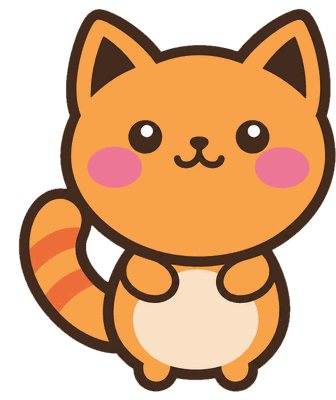
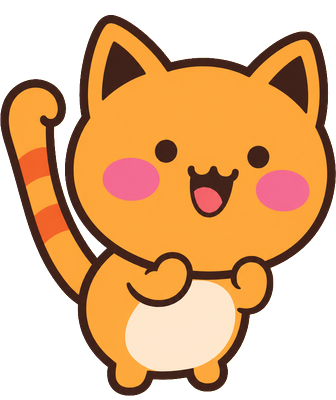
Confidence slider: the cat has a body for each state, leans into a drag and hops between poses
- Five new poses in place of the five stiff, upright ones (same file names,
  336x400, WebP + PNG, image-generated from the mascot's own cat3-* art):
  worried is crouched small with its tail wrapped and paws to its mouth,
  unsure sits with a paw to its chin, okay is a relaxed lean-back sit, happy
  is perky with its tail up, delighted is mid-hop with its arms up. All five
  share one base line (396 of 400) so they swap in place.
- The cat stands on the rail instead of straddling it, a little larger
  (111x132), and stays inside the sheet at 0 and at 10.
- Motion: it leans a few degrees into a drag and settles when the pointer
  stops or lets go; arrow and other keys give the same lean and settle; a
  small squash-and-hop when it crosses into a new pose; poses cross-fade.
  None of it with prefers-reduced-motion.
- The keyboard focus ring no longer shows while dragging with a pointer.
- Debrief: the "You said / You got" cats are 52px (were 44px) so the new
  full-body poses still read; the row is its own component.
- /design/confidence: a design preview of the slider and the debrief row
  with fixture data (404 in production, like the other previews).

Claude-Session: https://claude.ai/code/session_01TGR4JvJreRsK42GmW4qkjw

diff --git a/src/components/session/confidence-slider.tsx b/src/components/session/confidence-slider.tsx
@@ -1,33 +1,95 @@
 "use client";
 
 import Image from "next/image";
-import { useRef } from "react";
+import { useEffect, useRef, type PointerEvent } from "react";
 import { useI18n } from "@/lib/i18n";
 import "@/lib/i18n/start-check";
 import { cn } from "@/lib/utils";
 import { CONFIDENCE_FACES, CONFIDENCE_MAX, clampConfidence, confidenceCat, confidenceFace, sliderKeyValue, valueFromPointer } from "@/lib/start-check";
 
-/** Half the cat's width: the track is inset by this much so the cat never leaves the sheet. */
-const INSET = 40;
+/** How far the track is inset from the slider's edges, so the cat stays inside the sheet at 0 and at 10. */
+const INSET = 44;
+/** The most the cat tips into a drag, in degrees. */
+const LEAN_MAX = 8;
+/** How long after the last movement the cat stands back up. */
+const SETTLE_MS = 130;
+
+const reducedMotion = () => typeof window !== "undefined" && window.matchMedia("(prefers-reduced-motion: reduce)").matches;
 
 /**
  * "How confident are you?" as one drag. The cat is the handle: it rides the
- * track from 0 to 10 and its face goes from worried to delighted on the way.
- * A real slider for assistive tech (role, value, a spoken "3 out of 10,
- * unsure"), arrow / Page / Home / End / digit keys, and a touch or a drag
- * anywhere on the track.
+ * track from 0 to 10 and its whole body goes from crouched and worried to a
+ * delighted hop on the way. It leans into a drag (or an arrow key) and
+ * settles when it stops, and does a small squash-and-hop when it changes
+ * pose; none of that with reduced motion. A real slider for assistive tech
+ * (role, value, a spoken "3 out of 10, unsure"), arrow / Page / Home / End /
+ * digit keys, and a touch or a drag anywhere on the track.
  */
 export function ConfidenceSlider({ value, onChange, labelledBy, className }: { value: number; onChange: (value: number) => void; labelledBy?: string; className?: string }) {
   const { t } = useI18n();
   const trackRef = useRef<HTMLDivElement>(null);
+  const leanRef = useRef<HTMLDivElement>(null);
+  const hopRef = useRef<HTMLDivElement>(null);
+  const lastX = useRef<number | null>(null);
+  const settle = useRef<ReturnType<typeof setTimeout> | null>(null);
   const v = clampConfidence(value);
   const face = confidenceFace(v);
   const word = t(`startCheck.face.${face}`);
   const pct = (v / CONFIDENCE_MAX) * 100;
 
+  /** Tip the cat `deg` degrees about its feet; it stands back up once nothing has moved for a moment. */
+  const lean = (deg: number) => {
+    const el = leanRef.current;
+    if (!el) return;
+    if (settle.current) clearTimeout(settle.current);
+    settle.current = null;
+    const to = reducedMotion() ? 0 : Math.max(-LEAN_MAX, Math.min(LEAN_MAX, deg));
+    el.style.transform = to ? `rotate(${to.toFixed(1)}deg)` : "";
+    el.dataset.lean = to > 0 ? "right" : to < 0 ? "left" : "none";
+    if (to)
+      settle.current = setTimeout(() => {
+        el.style.transform = "";
+        el.dataset.lean = "none";
+      }, SETTLE_MS);
+  };
+
+  useEffect(
+    () => () => {
+      if (settle.current) clearTimeout(settle.current);
+    },
+    [],
+  );
+
+  // A new pose lands with a small squash and hop, so the swap reads as the cat moving, not a picture changing.
+  const shownFace = useRef(face);
+  useEffect(() => {
+    if (shownFace.current === face) return;
+    shownFace.current = face;
+    if (reducedMotion()) return;
+    hopRef.current?.animate(
+      [
+        { transform: "translateY(0) scale(1, 1)" },
+        { transform: "translateY(0) scale(1.08, 0.9)", offset: 0.22 },
+        { transform: "translateY(-9px) scale(0.96, 1.05)", offset: 0.55 },
+        { transform: "translateY(0) scale(1.04, 0.96)", offset: 0.82 },
+        { transform: "translateY(0) scale(1, 1)" },
+      ],
+      { duration: 360, easing: "ease-out" },
+    );
+  }, [face]);
+
   const fromPointer = (clientX: number) => {
     const rect = trackRef.current?.getBoundingClientRect();
     if (rect) onChange(valueFromPointer(clientX, rect.left, rect.width));
+    // Into the drag: a few degrees for any movement, a little more for a fast one.
+    const dx = lastX.current === null ? 0 : clientX - lastX.current;
+    if (dx) lean(Math.sign(dx) * (3 + Math.abs(dx) * 0.5));
+    lastX.current = clientX;
+  };
+  const release = (e: PointerEvent<HTMLDivElement>) => {
+    delete e.currentTarget.dataset.dragging;
+    lastX.current = null;
+    lean(0);
   };
 
   return (
@@ -49,50 +111,66 @@ export function ConfidenceSlider({ value, onChange, labelledBy, className }: { v
           if (next === null) return;
           e.preventDefault();
           onChange(next);
+          if (next !== v) lean(next > v ? 5 : -5);
         }}
         onPointerDown={(e) => {
           if (e.button !== 0 && e.pointerType === "mouse") return;
           e.currentTarget.setPointerCapture(e.pointerId);
           e.currentTarget.focus({ preventScroll: true });
+          e.currentTarget.dataset.dragging = "true";
+          lastX.current = null;
           fromPointer(e.clientX);
         }}
+        onPointerUp={release}
+        onPointerCancel={release}
+        onLostPointerCapture={release}
         onPointerMove={(e) => {
           if (e.currentTarget.hasPointerCapture(e.pointerId)) fromPointer(e.clientX);
         }}
-        className="group relative h-[136px] w-full cursor-grab touch-none rounded-2xl outline-none active:cursor-grabbing"
+        className="group relative h-[164px] w-full cursor-grab touch-none rounded-2xl outline-none active:cursor-grabbing"
         style={{ paddingInline: INSET }}
       >
         <div ref={trackRef} className="relative h-full w-full">
           {/* The track: a quiet rail, filled in the cat's orange up to the cat. */}
-          <div className="absolute inset-x-0 bottom-[14px] h-3 rounded-full bg-muted" aria-hidden>
-            <div className="h-full rounded-full bg-[#f6a53b] transition-[width] duration-150 ease-out" style={{ width: `${pct}%` }} />
+          <div className="absolute inset-x-0 bottom-[10px] h-3 rounded-full bg-muted" aria-hidden>
+            <div className="h-full rounded-full bg-[#f6a53b] transition-[width] duration-150 ease-out motion-reduce:transition-none" style={{ width: `${pct}%` }} />
           </div>
           {/* One notch a number, so a tap lands where it looks like it will. */}
-          <div className="absolute inset-x-0 bottom-[18px] flex justify-between" aria-hidden>
+          <div className="absolute inset-x-0 bottom-[14px] flex justify-between" aria-hidden>
             {Array.from({ length: CONFIDENCE_MAX + 1 }, (_, i) => (
               <span key={i} className={cn("size-1 -translate-x-1/2 rounded-full first:translate-x-0 last:translate-x-0", i <= v ? "bg-white/80" : "bg-border-strong")} />
             ))}
           </div>
-          {/* The cat. All five faces are mounted so a drag never waits on a download; one shows. */}
+          {/*
+            The cat, standing on the rail: every pose shares one base line (396 of 400), which lands a
+            few pixels into the rail. All five poses are mounted so a drag never waits on a download;
+            one shows, and they cross-fade.
+          */}
           <div
-            className="absolute bottom-[6px] h-[112px] w-[94px] -translate-x-1/2 transition-[left] duration-150 ease-out group-focus-visible:[&>span]:opacity-100"
+            className="absolute bottom-[17px] h-[132px] w-[111px] -translate-x-1/2 transition-[left] duration-150 ease-out motion-reduce:transition-none"
             style={{ left: `${pct}%` }}
+            data-confidence-cat
             aria-hidden
           >
-            <span className="pointer-events-none absolute -inset-x-1 -bottom-1 top-0 rounded-[28px] border-[3px] border-foreground opacity-0" />
-            {CONFIDENCE_FACES.map((f) => (
-              <Image
-                key={f}
-                src={confidenceCat(f)}
-                alt=""
-                width={336}
-                height={400}
-                unoptimized
-                priority={f === face}
-                draggable={false}
-                className={cn("absolute inset-0 h-full w-full object-contain transition-opacity duration-150", f === face ? "opacity-100" : "opacity-0")}
-              />
-            ))}
+            {/* The keyboard focus ring; never while a finger or the mouse is dragging. */}
+            <span className="pointer-events-none absolute -inset-x-1 -bottom-[14px] -top-1.5 rounded-[28px] border-[3px] border-foreground opacity-0 group-focus-visible:opacity-100 group-data-[dragging=true]:opacity-0" />
+            <div ref={leanRef} data-lean="none" className="absolute inset-0 origin-[50%_97%] transition-transform duration-300 ease-[cubic-bezier(0.34,1.56,0.64,1)] will-change-transform motion-reduce:transition-none">
+              <div ref={hopRef} className="absolute inset-0 origin-[50%_99%]">
+                {CONFIDENCE_FACES.map((f) => (
+                  <Image
+                    key={f}
+                    src={confidenceCat(f)}
+                    alt=""
+                    width={336}
+                    height={400}
+                    unoptimized
+                    priority={f === face}
+                    draggable={false}
+                    className={cn("absolute inset-0 h-full w-full object-contain transition-opacity duration-150 ease-out motion-reduce:transition-none", f === face ? "opacity-100" : "opacity-0")}
+                  />
+                ))}
+              </div>
+            </div>
           </div>
         </div>
       </div>

diff --git a/src/components/session/session-debrief.tsx b/src/components/session/session-debrief.tsx
@@ -2,7 +2,7 @@
 
 import { useNewUi } from "@/lib/new-ui";
 import { MathText } from "@/components/ui/markdown-text";
-import { useEffect, useState, type ReactNode } from "react";
+import { useEffect, useState, type CSSProperties, type ReactNode } from "react";
 import { Button } from "@/components/ui/button";
 import Link from "next/link";
 import Image from "next/image";
@@ -290,7 +290,7 @@ function AnswerDots({ dots, correct, wrong, href }: { dots: boolean[]; correct: 
 function SaidGot({ face, label, value, strong = false }: { face: ConfidenceFace; label: string; value: number; strong?: boolean }) {
   return (
     <span className="flex items-center gap-2">
-      <Image src={confidenceCat(face)} alt="" width={336} height={400} unoptimized className="h-11 w-auto" />
+      <Image src={confidenceCat(face)} alt="" width={336} height={400} unoptimized className="h-[52px] w-auto" />
       <span className="flex flex-col">
         <span className="text-caption font-bold leading-4 text-muted-foreground">{label}</span>
         <span className={cn("text-[22px] font-extrabold leading-6 tabular-nums", strong ? "text-foreground" : "text-muted-foreground")}>
@@ -303,6 +303,22 @@ function SaidGot({ face, label, value, strong = false }: { face: ConfidenceFace;
 }
 
 /** A secondary action at the end of a session: words on the page, underlined, with a quiet note after them. */
+/** "You said 3/10 → You got 7/10" and what that means: the one comparison only the debrief can make. */
+export function SaidGotRow({ result, className, style }: { result: NonNullable<ReturnType<typeof confidenceResult>>; className?: string; style?: CSSProperties }) {
+  const { t } = useI18n();
+  return (
+    <div className={className} style={style} data-confidence-result={result.verdict}>
+      <p className="sr-only">{t("finish.saidGot").replace("{a}", String(result.said)).replace("{b}", String(result.got))}</p>
+      <div className="flex items-center gap-3" aria-hidden>
+        <SaidGot face={confidenceFace(result.said)} label={t("finish.said")} value={result.said} />
+        <ArrowRight className="size-5 shrink-0 text-faint" />
+        <SaidGot face={confidenceFace(result.got)} label={t("finish.got")} value={result.got} strong />
+      </div>
+      <p className="mt-2 text-ui font-semibold text-muted-foreground">{t(`finish.verdict.${result.verdict}`)}</p>
+    </div>
+  );
+}
+
 function TextAction({
   title,
   sub,
@@ -679,15 +695,7 @@ export function SessionDebrief({
 
         {/* What they said beside what they got: the one comparison only this screen can make. */}
         {said && (
-          <div className="life-rise mt-5 px-1" style={{ ["--i" as string]: 2 }} data-confidence-result={said.verdict}>
-            <p className="sr-only">{t("finish.saidGot").replace("{a}", String(said.said)).replace("{b}", String(said.got))}</p>
-            <div className="flex items-center gap-3" aria-hidden>
-              <SaidGot face={confidenceFace(said.said)} label={t("finish.said")} value={said.said} />
-              <ArrowRight className="size-5 shrink-0 text-faint" />
-              <SaidGot face={confidenceFace(said.got)} label={t("finish.got")} value={said.got} strong />
-            </div>
-            <p className="mt-2 text-ui font-semibold text-muted-foreground">{t(`finish.verdict.${said.verdict}`)}</p>
-          </div>
+          <SaidGotRow result={said} className="life-rise mt-5 px-1" style={{ ["--i" as string]: 2 }} />
         )}
 
         {/* One next step. */}

diff --git a/src/app/design/confidence/page.tsx b/src/app/design/confidence/page.tsx
@@ -1,0 +1,41 @@
+"use client";
+
+import { useSearchParams } from "next/navigation";
+import { Suspense } from "react";
+import { StartCheckSheet } from "@/components/session/start-check-host";
+import { SaidGotRow } from "@/components/session/session-debrief";
+import { confidenceResult } from "@/lib/start-check";
+
+/**
+ * Design preview of the start check's cat slider and the debrief's "You said /
+ * You got" row, with fixture data and no network. `?v=6` opens the slider on
+ * a score; `?view=debrief` shows the row for each pose.
+ */
+function Inner() {
+  const q = useSearchParams();
+  if (q.get("view") === "debrief") {
+    const rows = [confidenceResult(1, 4, 10)!, confidenceResult(3, 7, 10)!, confidenceResult(6, 6, 10)!, confidenceResult(8, 9, 10)!, confidenceResult(10, 8, 10)!];
+    return (
+      <main className="mx-auto min-h-dvh max-w-[640px] bg-background px-5 py-8">
+        <h1 className="text-[28px] font-extrabold tracking-tight">7 of 10 right</h1>
+        <p className="mt-1 text-ui text-muted-foreground">Cell membranes · 12 min</p>
+        {rows.map((r, i) => (
+          <SaidGotRow key={i} result={r} className="mt-6 px-1" />
+        ))}
+      </main>
+    );
+  }
+  return (
+    <div className="fixed inset-0 flex items-end justify-center bg-foreground/30 sm:items-center sm:p-4">
+      <StartCheckSheet request={{ what: "Cell membranes", topicNames: ["Cell membranes"], papers: [], paperId: null }} onAnswer={() => {}} initial={Number(q.get("v") ?? 5)} />
+    </div>
+  );
+}
+
+export default function Page() {
+  return (
+    <Suspense>
+      <Inner />
+    </Suspense>
+  );
+}

diff --git a/src/lib/start-check.ts b/src/lib/start-check.ts
@@ -19,13 +19,19 @@ export const CONFIDENCE_FACES: ConfidenceFace[] = ["worried", "unsure", "neutral
 
 export const clampConfidence = (n: number) => Math.min(CONFIDENCE_MAX, Math.max(0, Math.round(Number.isFinite(n) ? n : CONFIDENCE_START)));
 
-/** The cat's face along the scale: worried 0-2, unsure 3-4, neutral 5-6, happy 7-8, delighted 9-10. */
+/**
+ * The cat's pose along the scale: worried 0-2 (crouched small, tail wrapped), unsure 3-4 (sitting, paw to
+ * chin), neutral 5-6 (a relaxed sit), happy 7-8 (perky, tail up), delighted 9-10 (mid-hop, arms up).
+ */
 export function confidenceFace(value: number): ConfidenceFace {
   const v = clampConfidence(value);
   return v <= 2 ? "worried" : v <= 4 ? "unsure" : v <= 6 ? "neutral" : v <= 8 ? "happy" : "delighted";
 }
 
-/** The round orange cat with that face (image-generated from the mascot's own art, public/design). */
+/**
+ * The round orange cat in that pose (image-generated from the mascot's own art, public/design). All five
+ * are 336×400 with the feet on one base line, 396px down, so they can be swapped in place.
+ */
 export const confidenceCat = (face: ConfidenceFace) => `/design/cat3-${face}.webp`;
 
 /**
